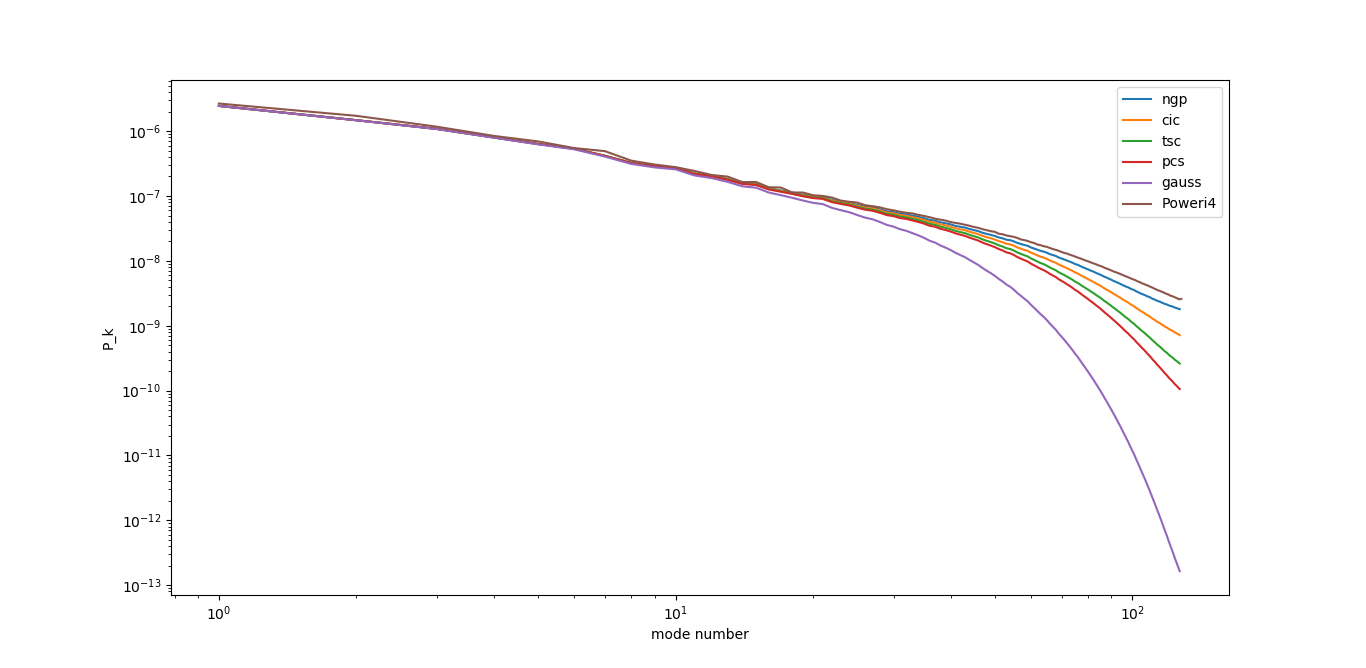
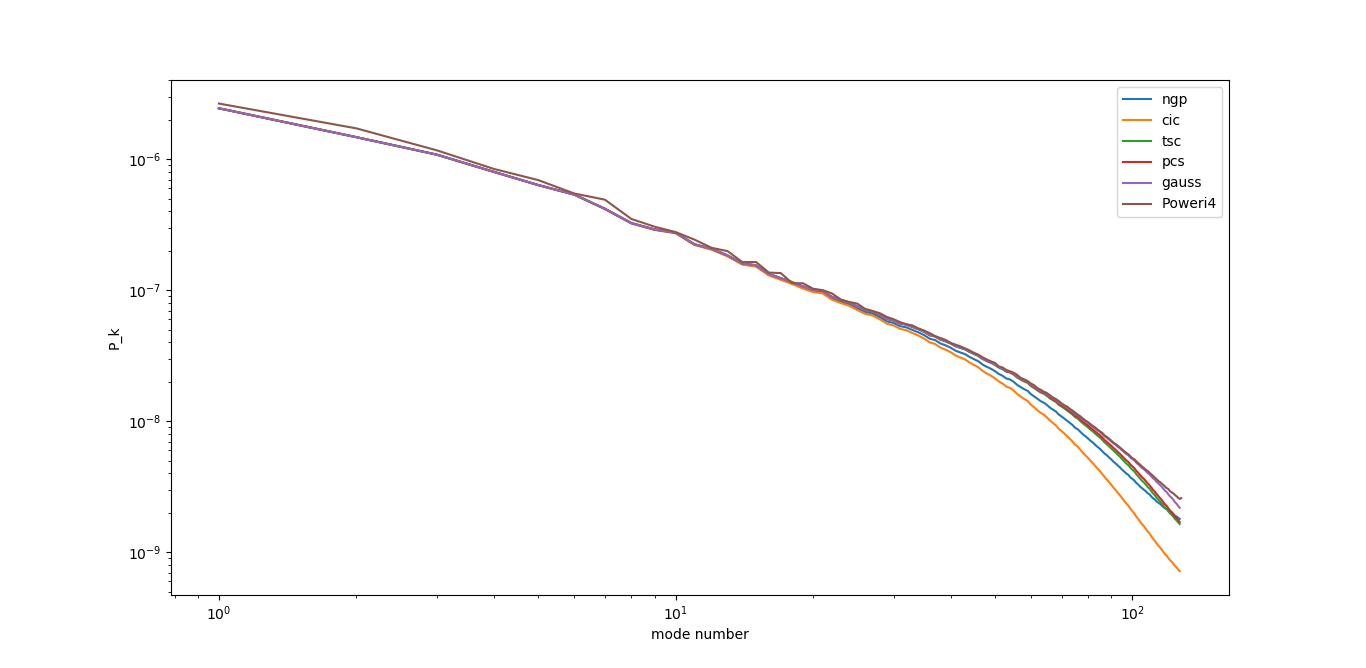
added correction of modes to sampling window
Suggestion from Sefussati et. al 2016
doi:10.1093/mnras/stw1229

diff --git a/include/libpm_grid.hpp b/include/libpm_grid.hpp
@@ -131,6 +131,25 @@ namespace PM
             return Wval;
         }
 
+        template <class filter_t>
+        auto filter_fft() const
+        {
+            const int N = size();
+            std::vector<std::complex<double>> Wk(N);
+            filter_t W;
+            for (int i = -N / 2; i <= N / 2; ++i)
+            {
+                Wk[(i + N) % N] = W(i);
+            }
+            fftw_plan filter_plan =
+                fftw_plan_dft_1d(N, reinterpret_cast<fftw_complex*>(&Wk[0]),
+                                 reinterpret_cast<fftw_complex*>(&Wk[0]),
+                                 FFTW_FORWARD, FFTW_ESTIMATE);
+            fftw_execute(filter_plan);
+            fftw_destroy_plan(filter_plan);
+            return Wk;
+        }
+
        public:
         grid() = delete;
 
@@ -337,6 +356,28 @@ namespace PM
             for (int i = 0; i < k_max; ++i)
                 modes[i] /= (count[i] > 0 ? count[i] : 1);
             return modes;
+        }
+
+        /*
+            Correction of Fourier modes
+            due to sampling window function.
+        */
+        void sample_correction()
+        {
+            std::array<T, dim> center;
+            std::fill(center.begin(), center.end(), 0);
+            auto index_range = get_index_range(center);
+            auto Wk = filter_fft<sampler_t>();
+            const int N = size();
+            for (auto i = index_range.begin(); i != index_range.end(); ++i)
+            {
+                std::complex<double> w = 1;
+                for (int d = 0; d < dim; ++d)
+                {
+                    w *= Wk[(i._state[d] + N) % N];
+                }
+                *i /= w;
+            }
         }
 
         ~grid()

diff --git a/examples/1d-power-spectrum/main.cpp b/examples/1d-power-spectrum/main.cpp
@@ -17,7 +17,7 @@ auto random_positions(int Np /* # particles */)
 {
     std::vector<double> pos;
     std::mt19937 rng;
-    std::normal_distribution<double> dist(10, 0.005);
+    std::normal_distribution<double> dist(10, 0.05);
     for (int i = 0; i < Np; ++i)
         pos.push_back(dist(rng));
     return pos;
@@ -29,6 +29,7 @@ void power_spectrum(const std::vector<double>& pos, std::string fname)
     PM::grid<1, double, filter_t, PM::Grid_filter<N>> mygrid(N);
     mygrid.sample_density(pos);
     mygrid.fft();
+    mygrid.sample_correction();
     auto modes = mygrid.get_modes();
     double fact = 1.0 / pos.size();
     fact *= fact;
@@ -46,6 +47,6 @@ int main()
     power_spectrum<100, PM::TSC_filter>(pos, "tsc");
     power_spectrum<100, PM::PCS_filter>(pos, "pcs");
     power_spectrum<100, PM::Gaussian_filter>(pos, "gauss");
-    power_spectrum<100, PM::LowPass_filter<10, 100>>(pos, "low_pass");
+    //power_spectrum<100, PM::LowPass_filter<10, 100>>(pos, "low_pass");
     return 0;
 }

diff --git a/examples/3d-power-spectrum/main.cpp b/examples/3d-power-spectrum/main.cpp
@@ -41,6 +41,8 @@ void power_spectrum(const std::vector<float>& pos, std::string fname)
     mygrid.sample_density(pos);
     std::cout << "\tPerforming FFT\n";
     mygrid.fft();
+    std::cout << "\tPerforming mode correction\n";
+    mygrid.sample_correction();
     std::cout << "\tEvaluating the modes\n";
     auto modes = mygrid.get_modes();
     float fact = 3.0 / pos.size(), two_pi = 2 * acos(-1.0);

diff --git a/examples/1d-power-spectrum/plot.py b/examples/1d-power-spectrum/plot.py
@@ -21,5 +21,5 @@ def plot_pw(name,funlist,subname):
     #plt.savefig(name+'_'+subname+'.png')
 
 if __name__=="__main__":
-    plot_pw('pw-random',['exact','ngp','cic','tsc','pcs','gauss','low_pass'],'all')
+    plot_pw('pw-random',['exact','ngp','cic','tsc','pcs','gauss'],'all')
 
